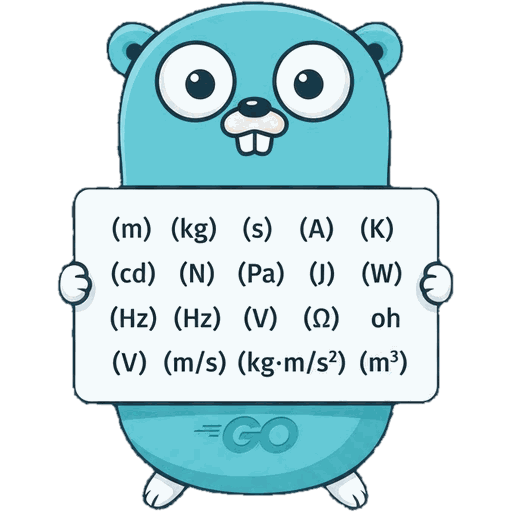
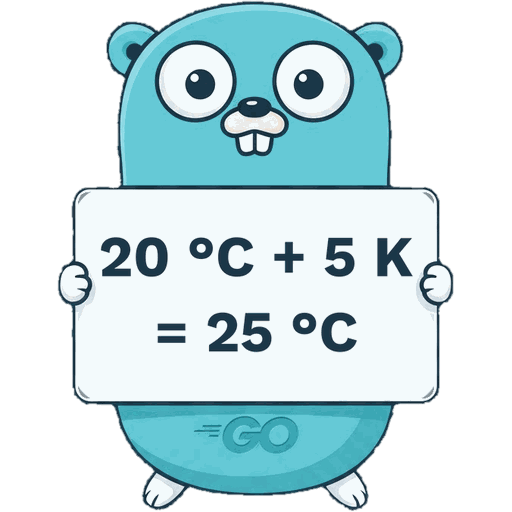
docs: put the affine rule on the gopher's sign
The sign the artwork arrived with was a generated list of unit symbols and
it did not survive reading: (Hz) and (V) each appeared twice, and one cell
read "oh" where an ohm was meant. A logo for a units library whose first
promise is that its catalogue can be audited should not have to be excused.

It now carries the one line that says what this library is for. 20 °C + 5 K
= 25 °C is the affine rule of D6 — a point on a scale plus a distance along
one — and it is the thing no other units library in Go gets right. Two lines
of large type also stay legible at the 180 px the README shows, which the
twenty-cell grid never did.

The panel is repainted, not overlaid: the original text was removed with a
median wider than a glyph stroke, so the sign keeps its own shading, border
and highlights, and the gopher is untouched everywhere else.

diff --git a/README.md b/README.md
@@ -1,4 +1,4 @@
-<img src="docs/gopher.png" alt="" width="180" align="right">
+<img src="docs/gopher.png" alt="The Go gopher holding a sign that reads 20 °C + 5 K = 25 °C" width="180" align="right">
 
 # metrology
 
